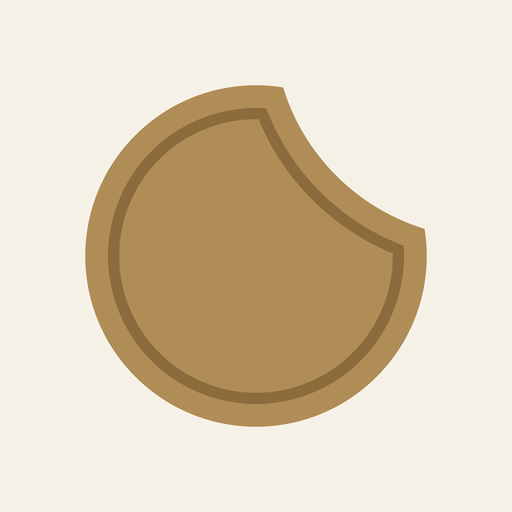
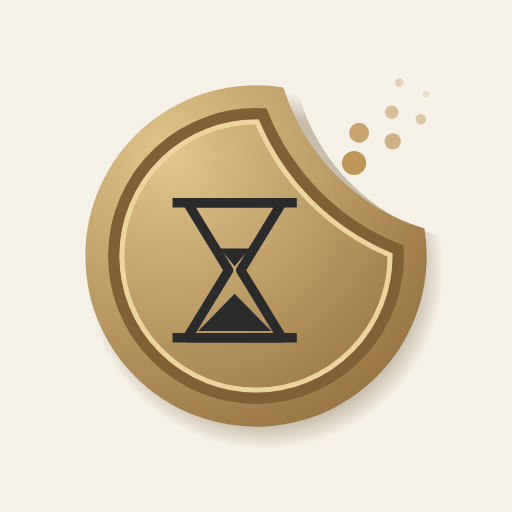
feat(life_balance): 앱 아이콘을 모래시계 각인·금가루 금화로 교체
- 금속 그라디언트, 각인 테두리, 그림자, 먹색 모래시계, 베인 가장자리의 금가루
- 모래시계는 베인 가장자리와 겹치지 않게 왼쪽 아래로 치우치고 95%로 축소
- 금가루는 런처 원형 마스크 안전 영역(반지름 33dp) 안에 배치
- build_icons.py가 한 도형 정의에서 VectorDrawable과 SVG를 만들고 PNG는 headless Chrome으로 렌더링

Claude-Session: https://claude.ai/code/session_01QdgAVAkuRKFZ7G7aRTHAWh

diff --git a/apps/life_balance/tool/build_icons.py b/apps/life_balance/tool/build_icons.py
@@ -1,146 +1,230 @@
-"""앱 아이콘(조금 이지러진 금화) 벡터·래스터 리소스 생성기.
+"""앱 아이콘(기우는 금화 + 모래시계 각인 + 금가루) 리소스 생성기.
 
-기하: 108dp 적응형 아이콘 캔버스, 중심 (54,54).
-- 금화 원판 반지름 R, 오른쪽 위 45도 방향 거리 D에 반지름 r의 원으로 베어낸다.
-- 테두리 링은 금화 모양으로 클리핑한 원 스트로크.
-실행: python3 tool/build_icons.py  (앱 디렉터리에서)
+한 벌의 도형 정의(elements)에서 Android VectorDrawable과 SVG를 같이 만든다.
+PNG(레거시 mipmap, 스토어 512px)는 SVG를 headless Chrome으로 렌더링해 만든다.
+
+기하: 108dp 적응형 아이콘 캔버스, 중심 (54,54), 보이는 영역은 가운데 72dp.
+- 금화: 반지름 R 원에서 오른쪽 위 45도, 거리 D, 반지름 r 원을 베어낸다.
+- 테두리 링: 금화 모양을 RIM_INSET만큼 안쪽으로 줄인 윤곽(큰 원 R-inset, 베인 원 r+inset).
+- 모래시계: 먹색, 베인 가장자리와 겹치지 않도록 왼쪽 아래로 치우쳐 둔다.
+- 금가루: 베인 가장자리에서 오른쪽 위로 흩어지는 작은 원.
+
+실행 (앱 디렉터리에서): python3 tool/build_icons.py
 """
 import math
 import pathlib
+import shutil
+import subprocess
+import tempfile
 
-from PIL import Image, ImageDraw
+from PIL import Image
 
 ROOT = pathlib.Path(__file__).resolve().parent.parent
 RES = ROOT / "android/app/src/main/res"
 DESIGN = ROOT / "design"
+CHROME = "/Applications/Google Chrome.app/Contents/MacOS/Google Chrome"
 
-C = 54.0  # 캔버스 중심
-R = 24.0  # 금화 반지름
-r = 30.0  # 베어낸 원 반지름 (금화보다 큰 원 → 완만하게 기우는 모양)
-D = 46.0  # 중심 간 거리 (침범 깊이 R + r - D = 8)
-RIM_INSET = 4.0  # 테두리 링이 금화 외곽에서 들어온 거리
-RIM_W = 1.6
+C = 54.0
+R, r, D = 24.0, 30.0, 46.0  # 침범 깊이 R + r - D = 8
+RIM_INSET, RIM_W, HL_W = 4.0, 1.6, 0.7
 
 IVORY = "#F6F1E7"
-INK_DARK = "#1E1B16"
-GOLD = "#B08D57"
-GOLD_RIM = "#8C6B3C"
+GOLD_LIGHT, GOLD_DARK = "#E2C48C", "#967342"
+GOLD_RIM, GOLD_HL = "#806034", "#ECD4A0"
+INK = "#2B2B2B"
+DUST = "#BE965A"
+SHADOW = "#6B5530"  # 아이보리 위 33% 알파로 (200,186,160) 근사
+
+BITE = (C + D * math.cos(math.radians(45)), C - D * math.sin(math.radians(45)))
 
 
-def intersections(R=R, r=r):
-    ux, uy = math.cos(math.radians(45)), -math.sin(math.radians(45))  # 오른쪽 위 (y 아래 방향 좌표)
+def fmt(v):
+    return f"{v:.3f}".rstrip("0").rstrip(".")
+
+
+def coin_path(Ro=R, ro=r, dx=0.0, dy=0.0):
+    ux, uy = math.cos(math.radians(45)), -math.sin(math.radians(45))
     vx, vy = -uy, ux
-    a = (R * R - r * r + D * D) / (2 * D)
-    h = math.sqrt(R * R - a * a)
-    p1 = (C + a * ux - h * vx, C + a * uy - h * vy)
-    p2 = (C + a * ux + h * vx, C + a * uy + h * vy)
-    bite = (C + D * ux, C + D * uy)
-    return p1, p2, bite
+    a = (Ro * Ro - ro * ro + D * D) / (2 * D)
+    h = math.sqrt(Ro * Ro - a * a)
+    p1 = (C + a * ux - h * vx + dx, C + a * uy - h * vy + dy)
+    p2 = (C + a * ux + h * vx + dx, C + a * uy + h * vy + dy)
+    # 큰 원은 베인 쪽 반대로 긴 호, 베인 원은 금화 안쪽 짧은 호
+    return (f"M{fmt(p1[0])},{fmt(p1[1])} A{fmt(Ro)},{fmt(Ro)} 0 1,0 {fmt(p2[0])},{fmt(p2[1])} "
+            f"A{fmt(ro)},{fmt(ro)} 0 0,1 {fmt(p1[0])},{fmt(p1[1])} Z")
 
 
-def coin_path(dx=0.0, dy=0.0, R=R, r=r):
-    p1, p2, _ = intersections(R, r)
-    f = lambda p: f"{p[0] + dx:.3f},{p[1] + dy:.3f}"
-    # 큰 원은 베인 쪽 반대로 긴 호(large=1, sweep=0), 베인 원은 안쪽 짧은 호(large=0, sweep=1)
-    return f"M{f(p1)} A{R:g},{R:g} 0 1,0 {f(p2)} A{r:g},{r:g} 0 0,1 {f(p1)} Z"
+def circle_path(cx, cy, rad):
+    return (f"M{fmt(cx - rad)},{fmt(cy)} a{fmt(rad)},{fmt(rad)} 0 1,0 {fmt(2 * rad)},0 "
+            f"a{fmt(rad)},{fmt(rad)} 0 1,0 {fmt(-2 * rad)},0 Z")
 
 
-def rim_path():
-    # 금화 모양을 RIM_INSET만큼 안쪽으로 줄인 윤곽: 큰 원은 R-inset, 베어낸 원은 r+inset
-    return coin_path(R=R - RIM_INSET, r=r + RIM_INSET)
+def poly(points, close=True):
+    d = "M" + " L".join(f"{fmt(x)},{fmt(y)}" for x, y in points)
+    return d + (" Z" if close else "")
+
+
+def hourglass():
+    cx, cy, k = 51.0, 56.0, 0.95  # 중심을 왼쪽 아래로 (-3, +2), 크기 95%
+    hw, hh, cap = 7.0 * k, 10.0 * k, 1.5 * k
+    frame = poly([(cx - hw, cy - hh), (cx + hw, cy - hh), (cx + 0.9 * k, cy),
+                  (cx + hw, cy + hh), (cx - hw, cy + hh), (cx - 0.9 * k, cy)])
+    bars = (poly([(cx - hw - cap, cy - hh), (cx + hw + cap, cy - hh)], close=False) + " "
+            + poly([(cx - hw - cap, cy + hh), (cx + hw + cap, cy + hh)], close=False))
+    sand = (poly([(cx - hw + 1.6 * k, cy + hh - 1 * k), (cx + hw - 1.6 * k, cy + hh - 1 * k), (cx, cy + 3.5 * k)]) + " "
+            + poly([(cx - 2.2 * k, cy - 3.2 * k), (cx + 2.2 * k, cy - 3.2 * k), (cx, cy - 0.6 * k)]))
+    return [
+        {"d": frame, "stroke": INK, "width": 1.4 * k, "join": "round"},
+        {"d": bars, "stroke": INK, "width": 1.4 * k, "cap": "square"},
+        {"d": sand, "fill": INK},
+    ]
+
+
+# 금가루: (중심에서 45도 방향 거리, 수직 방향 치우침, 반지름, 불투명도).
+# 베인 가장자리(거리 D - r = 16) 바깥에서 시작해 안전 영역(반지름 33) 안에서 끝난다.
+_U, _V = (math.cos(math.radians(45)), -math.sin(math.radians(45))), (math.sin(math.radians(45)), math.cos(math.radians(45)))
+DUST_DOTS = [(C + t * _U[0] + s * _V[0], C + t * _U[1] + s * _V[1], rad, a) for t, s, rad, a in [
+    (19.0, 0.5, 1.7, 1.0), (22.5, -2.0, 1.4, .85), (25.0, 2.2, 1.15, .7), (27.8, -0.8, 0.95, .55),
+    (30.0, 2.8, 0.75, .45), (31.5, -3.0, 0.6, .35), (33.0, 0.8, 0.45, .25)]]
+assert all(math.hypot(x - C, y - C) + rad <= 34 for x, y, rad, _ in DUST_DOTS)
+
+
+def elements():
+    coin = coin_path()
+    hl_off = RIM_INSET + RIM_W / 2 + HL_W / 2
+    els = [
+        # 그림자: 아래오른쪽으로 비킨 금화, 가장자리로 갈수록 투명
+        {"d": coin_path(R + 1.2, r - 1.2, dx=1.2, dy=2.0),
+         "radial": (C + 1.2, C + 2.0, R + 1.2, [(0, SHADOW, .33), (.86, SHADOW, .33), (1, SHADOW, 0)])},
+        {"d": coin, "radial": (42, 40, 44, [(0, GOLD_LIGHT, 1), (1, GOLD_DARK, 1)])},
+        {"d": coin_path(R - RIM_INSET, r + RIM_INSET), "stroke": GOLD_RIM, "width": RIM_W, "clip": coin},
+        {"d": coin_path(R - hl_off, r + hl_off), "stroke": GOLD_HL, "width": HL_W, "clip": coin},
+        *hourglass(),
+    ]
+    for x, y, rad, a in DUST_DOTS:
+        els.append({"d": circle_path(x, y, rad), "fill": DUST, "alpha": a})
+    return els
+
+
+def argb(hex_rgb, alpha=1.0):
+    return f"#{round(alpha * 255):02X}{hex_rgb[1:]}"
+
+
+def vd_element(e, indent="    "):
+    attrs = [f'android:pathData="{e["d"]}"']
+    if "fill" in e:
+        attrs.append(f'android:fillColor="{argb(e["fill"], e.get("alpha", 1))}"')
+    if "stroke" in e:
+        attrs.append(f'android:strokeColor="{e["stroke"]}"')
+        attrs.append(f'android:strokeWidth="{fmt(e["width"])}"')
+        if "join" in e:
+            attrs.append(f'android:strokeLineJoin="{e["join"]}"')
+        if "cap" in e:
+            attrs.append(f'android:strokeLineCap="{e["cap"]}"')
+    sep = "\n" + indent + "    "
+    if "radial" in e:
+        cx, cy, rad, stops = e["radial"]
+        items = "".join(
+            f'{indent}            <item android:offset="{fmt(o)}" android:color="{argb(c, a)}" />\n' for o, c, a in stops)
+        body = (f"{indent}<path{sep}{sep.join(attrs)}>\n"
+                f'{indent}    <aapt:attr name="android:fillColor">\n'
+                f'{indent}        <gradient android:type="radial" android:centerX="{fmt(cx)}" '
+                f'android:centerY="{fmt(cy)}" android:gradientRadius="{fmt(rad)}">\n'
+                f"{items}{indent}        </gradient>\n{indent}    </aapt:attr>\n{indent}</path>\n")
+    else:
+        body = f"{indent}<path{sep}{sep.join(attrs)} />\n"
+    if "clip" in e:
+        return (f"{indent}<group>\n{indent}    <clip-path android:pathData=\"{e['clip']}\" />\n"
+                + "".join("    " + line + "\n" for line in body.rstrip("\n").split("\n"))
+                + f"{indent}</group>\n")
+    return body
 
 
 def vector(size_dp, viewport, body):
     return (
         '<?xml version="1.0" encoding="utf-8"?>\n'
+        '<!-- tool/build_icons.py 생성 파일: 직접 고치지 말 것 -->\n'
         '<vector xmlns:android="http://schemas.android.com/apk/res/android"\n'
+        '    xmlns:aapt="http://schemas.android.com/aapt"\n'
         f'    android:width="{size_dp}dp"\n    android:height="{size_dp}dp"\n'
         f'    android:viewportWidth="{viewport}"\n    android:viewportHeight="{viewport}">\n'
         f"{body}</vector>\n"
     )
 
 
-def foreground_xml():
-    path = coin_path()
-    body = (
-        f'    <path android:fillColor="{GOLD}" android:pathData="{path}" />\n'
-        "    <group>\n"
-        f'        <clip-path android:pathData="{path}" />\n'
-        f'        <path android:strokeColor="{GOLD_RIM}" android:strokeWidth="{RIM_W}"\n'
-        f'            android:pathData="{rim_path()}" />\n'
-        "    </group>\n"
-    )
-    return vector(108, 108, body)
+def svg_element(e, i):
+    defs, attrs = "", [f'd="{e["d"]}"']
+    if "radial" in e:
+        cx, cy, rad, stops = e["radial"]
+        st = "".join(f'<stop offset="{fmt(o)}" stop-color="{c}" stop-opacity="{fmt(a)}"/>' for o, c, a in stops)
+        defs += (f'<radialGradient id="g{i}" gradientUnits="userSpaceOnUse" cx="{fmt(cx)}" cy="{fmt(cy)}" '
+                 f'r="{fmt(rad)}">{st}</radialGradient>')
+        attrs.append(f'fill="url(#g{i})"')
+    elif "fill" in e:
+        attrs.append(f'fill="{e["fill"]}"')
+        if e.get("alpha", 1) != 1:
+            attrs.append(f'fill-opacity="{fmt(e["alpha"])}"')
+    else:
+        attrs.append('fill="none"')
+    if "stroke" in e:
+        attrs += [f'stroke="{e["stroke"]}"', f'stroke-width="{fmt(e["width"])}"']
+        if "join" in e:
+            attrs.append(f'stroke-linejoin="{e["join"]}"')
+        if "cap" in e:
+            attrs.append(f'stroke-linecap="{e["cap"]}"')
+    if "clip" in e:
+        defs += f'<clipPath id="c{i}"><path d="{e["clip"]}"/></clipPath>'
+        attrs.append(f'clip-path="url(#c{i})"')
+    return defs, f'  <path {" ".join(attrs)}/>\n'
 
 
-def monochrome_xml():
-    return vector(108, 108, f'    <path android:fillColor="#FF000000" android:pathData="{coin_path()}" />\n')
-
-
-def status_xml():
-    # 24dp 알림 아이콘: 금화 외곽(30..78)을 52 뷰포트로 잘라 꽉 차게
-    path = coin_path(dx=-28, dy=-28)
-    return vector(24, 52, f'    <path android:fillColor="#FFFFFFFF" android:pathData="{path}" />\n')
-
-
-def svg_master():
-    path = coin_path()
-    return (
-        '<svg xmlns="http://www.w3.org/2000/svg" viewBox="0 0 108 108" width="512" height="512">\n'
-        f'  <rect width="108" height="108" fill="{IVORY}"/>\n'
-        f'  <clipPath id="coin"><path d="{path}"/></clipPath>\n'
-        f'  <path d="{path}" fill="{GOLD}"/>\n'
-        f'  <path d="{rim_path()}" fill="none" stroke="{GOLD_RIM}" stroke-width="{RIM_W}" clip-path="url(#coin)"/>\n'
-        "</svg>\n"
-    )
-
-
-def raster(px, background, crop=18.0, round_mask=False):
-    """crop: 108 캔버스에서 가장자리를 잘라낼 dp (적응형 아이콘의 보이는 72dp = 18 crop)."""
-    ss = 4
-    big = px * ss
-    span = 108 - 2 * crop
-    s = big / span
-    t = lambda v: (v - crop) * s
-    coin = Image.new("L", (big, big), 0)
-    d = ImageDraw.Draw(coin)
-    d.ellipse([t(C - R), t(C - R), t(C + R), t(C + R)], fill=255)
-    _, _, b = intersections()
-    d.ellipse([t(b[0] - r), t(b[1] - r), t(b[0] + r), t(b[1] + r)], fill=0)
-    def shape(Ro, ro):
-        m = Image.new("L", (big, big), 0)
-        dm = ImageDraw.Draw(m)
-        dm.ellipse([t(C - Ro), t(C - Ro), t(C + Ro), t(C + Ro)], fill=255)
-        dm.ellipse([t(b[0] - ro), t(b[1] - ro), t(b[0] + ro), t(b[1] + ro)], fill=0)
-        return m
-    hw = RIM_W / 2
-    outer = shape(R - RIM_INSET + hw, r + RIM_INSET - hw)
-    inner = shape(R - RIM_INSET - hw, r + RIM_INSET + hw)
-    from PIL import ImageChops
-    rim = ImageChops.subtract(outer, inner)
-    img = Image.new("RGBA", (big, big), background)
-    img.paste(Image.new("RGBA", (big, big), GOLD), (0, 0), coin)
-    img.paste(Image.new("RGBA", (big, big), GOLD_RIM), (0, 0), rim)
+def svg(background=IVORY, round_mask=False, crop=0.0, px=512):
+    """crop: 108 캔버스 가장자리에서 잘라낼 dp. 런처에 보이는 영역은 crop=18."""
+    defs, body = "", ""
+    for i, e in enumerate(elements()):
+        d, b = svg_element(e, i)
+        defs, body = defs + d, body + b
+    lo, span = crop, 108 - 2 * crop
+    clip = ""
     if round_mask:
-        m = Image.new("L", (big, big), 0)
-        ImageDraw.Draw(m).ellipse([0, 0, big - 1, big - 1], fill=255)
-        out = Image.new("RGBA", (big, big), (0, 0, 0, 0))
-        out.paste(img, (0, 0), m)
-        img = out
-    return img.resize((px, px), Image.LANCZOS)
+        defs += f'<clipPath id="mask"><circle cx="{C}" cy="{C}" r="{fmt(span / 2)}"/></clipPath>'
+        clip = ' clip-path="url(#mask)"'
+    bg = f'  <rect x="0" y="0" width="108" height="108" fill="{background}"/>\n' if background else ""
+    return (f'<svg xmlns="http://www.w3.org/2000/svg" viewBox="{fmt(lo)} {fmt(lo)} {fmt(span)} {fmt(span)}" '
+            f'width="{px}" height="{px}">\n<defs>{defs}</defs>\n<g{clip}>\n{bg}{body}</g>\n</svg>\n')
+
+
+def render_png(svg_text, px, out):
+    with tempfile.TemporaryDirectory() as tmp:
+        src = pathlib.Path(tmp) / "icon.svg"
+        src.write_text(svg_text.replace('width="512" height="512"', f'width="{px}" height="{px}"'))
+        shot = pathlib.Path(tmp) / "shot.png"
+        subprocess.run([CHROME, "--headless", "--disable-gpu", "--hide-scrollbars",
+                        "--default-background-color=00000000", f"--window-size={px},{px}",
+                        f"--screenshot={shot}", src.as_uri()], check=True, capture_output=True)
+        shutil.copy(shot, out)
 
 
 def main():
-    (RES / "drawable/ic_launcher_foreground.xml").write_text(foreground_xml())
-    (RES / "drawable/ic_launcher_monochrome.xml").write_text(monochrome_xml())
-    (RES / "drawable/ic_stat_balance.xml").write_text(status_xml())
+    fg = "".join(vd_element(e) for e in elements())
+    (RES / "drawable/ic_launcher_foreground.xml").write_text(vector(108, 108, fg))
+    # 단색 테마 아이콘·알림 아이콘은 실루엣만 (각인은 단색에서 보이지 않는다)
+    (RES / "drawable/ic_launcher_monochrome.xml").write_text(
+        vector(108, 108, f'    <path android:fillColor="#FF000000" android:pathData="{coin_path()}" />\n'))
+    (RES / "drawable/ic_stat_balance.xml").write_text(
+        vector(24, 52, f'    <path android:fillColor="#FFFFFFFF" android:pathData="{coin_path(dx=-28, dy=-28)}" />\n'))
+
     DESIGN.mkdir(exist_ok=True)
-    (DESIGN / "app_icon.svg").write_text(svg_master())
-    # minSdk 26이라 런처는 적응형 아이콘을 쓰지만, 레거시 PNG도 같은 그림으로 맞춘다
+    (DESIGN / "app_icon.svg").write_text(svg())
+    store = DESIGN / "app_icon_512.png"
+    render_png(svg(crop=18), 512, store)  # 스토어 등록용: 런처에 보이는 72dp 영역, 정사각
+    big = DESIGN / ".legacy_round.png"
+    render_png(svg(crop=18, round_mask=True, background=IVORY), 512, big)
+    img = Image.open(big).convert("RGBA")
     for folder, px in {"mdpi": 48, "hdpi": 72, "xhdpi": 96, "xxhdpi": 144, "xxxhdpi": 192}.items():
-        raster(px, IVORY, round_mask=True).save(RES / f"mipmap-{folder}/ic_launcher.png")
-    raster(512, IVORY).save(DESIGN / "app_icon_512.png")  # 스토어 등록용 (정사각, 마스크 없음)
-    print("ok", intersections())
+        img.resize((px, px), Image.LANCZOS).save(RES / f"mipmap-{folder}/ic_launcher.png")
+    big.unlink()
+    print("ok")
 
 
 if __name__ == "__main__":
